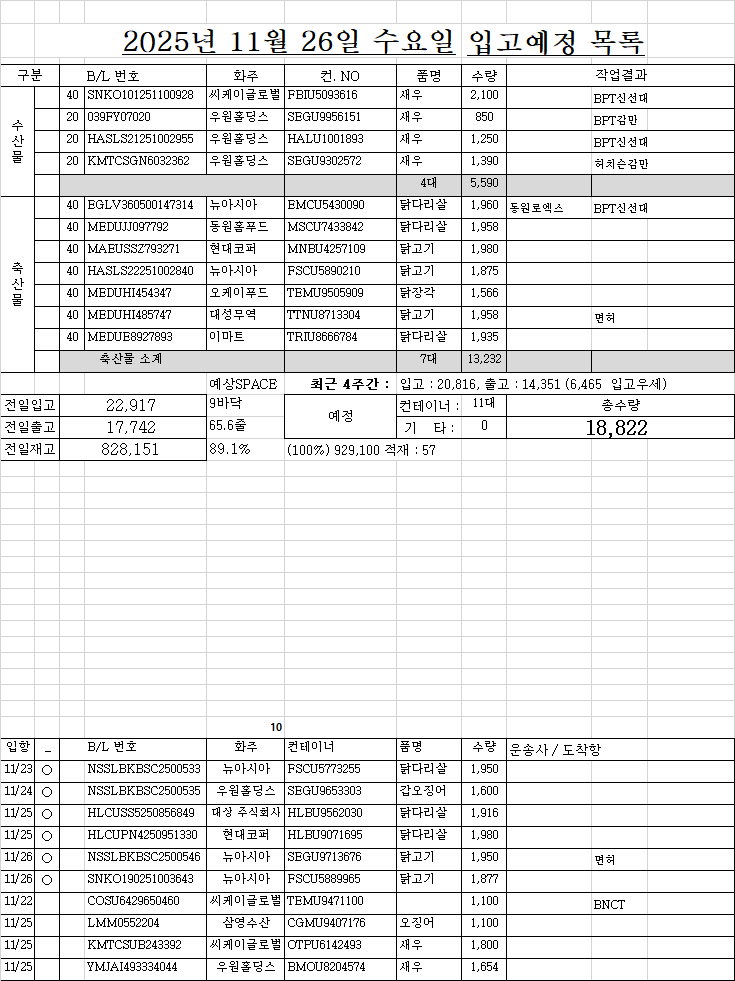
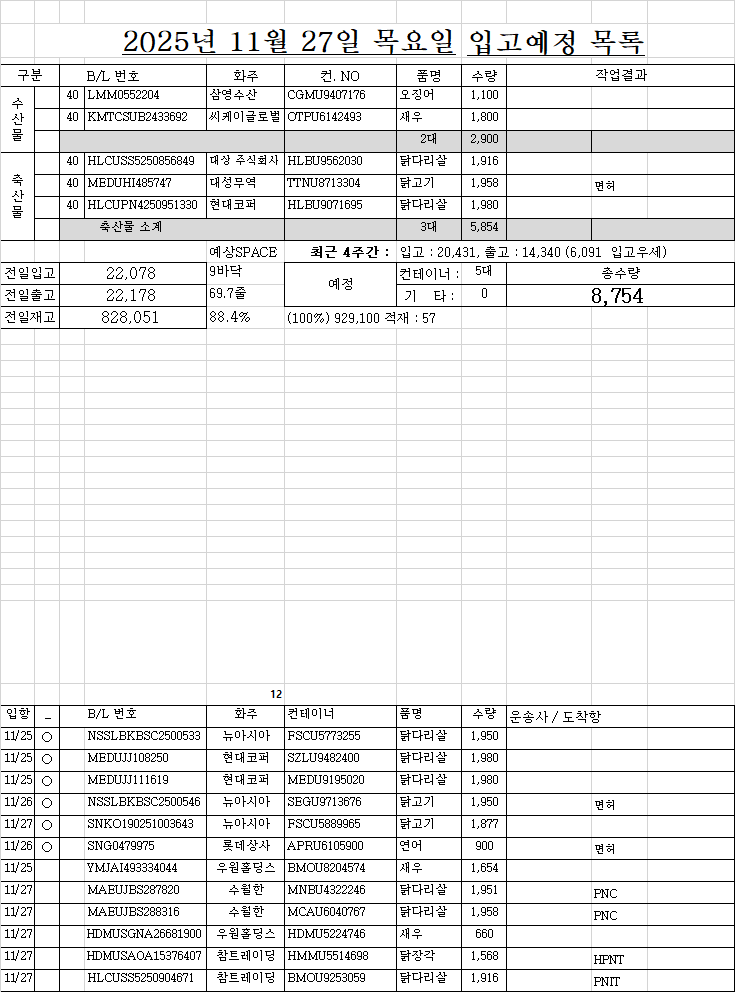
SDFSDFSDF

Changed region(s): [[0.0, 0.0306, 1.0, 0.5199], [0.0, 0.6728, 1.0, 1.0], [0.0, 0.5505, 1.0, 0.581]]

diff --git a/list.html b/list.html
@@ -123,47 +123,45 @@
 </div>
 <!-- ★★★★★★ 따로 빼 놔야한다. 복붙하면 첫칸 비어도 되는데, 여기서는 첫칸비우면 당겨진다. -->
 <!-- ★ 엑셀범위를 브라우저 textarea에 붙여넣으면 첫셀 비어도 제대로 되는데... HTML에 붙여놓은 자료는 처음셀이 비어있으면 당겨짐 -->
-<div class="d-none" id="원본text_리스트1부터w요약열까지">작성	면허	B/LNO.	화주	컨테이너NO.	품명	수량	반입NO.	입항일	구분	도착일	도착시간	구분	운.도VBA	11/25 화 17:25	화찰BL	화찰 선명	화물관리번호	화찰수량	화찰중량	화찰입항	리스트시트기준열	
-1	○	SNKO101251100928	씨케이글로벌	FBIU5093616	새우	2,100 	BPT신선대	11/23	1				BPT신선대		SNKO101251100928	HEUNG-A HOCHIMINH	25HASL2022I-6055-	2,100 	15,120.00 	2025.11.23	11/25 화 17:25	
-1	○	039FY07020	우원홀딩스	SEGU9956151	새우	850 	BPT감만	11/23	1			20 	BPT감만		039FY07020	WAN HAI 289	25WHLUJS39I-1037-	850 	10,200.00 	2025.11.23	조회정보	
-1	○	HASLS21251002955	우원홀딩스	HALU1001893	새우	1,250 	BPT신선대	11/23	1			20 	BPT신선대		HASLS21251002955	HEUNG-A HOCHIMINH	25HASL2022I-2011-	1,250 	7,155.00 	2025.11.23	적재	57 
-1	○	KMTCSGN6032362	우원홀딩스	SEGU9302572	새우	1,390 	허치슨감만	11/24	1			20 	허치슨감만		KMTCSGN6032362	KMTC TOKYO	25KMTC4059I-9024-	1,390 	8,896.00 	2025.11.24	4,617 	3줄
-1	○	EGLV360500147314	뉴아시아	EMCU5430090	닭다리살	1,960 	동원로엑스.BPT신선대	11/18	2	11/25	16:31		동원로엑스.BPT신선대		EGLV360500147314	TS VANCOUVER	25TSLUB150I-1955-	1,960 	24,500.00 	2025.11.18	6,156 	4줄
-1	○	MEDUJJ097792	동원홈푸드	MSCU7433842	닭다리살	1,958 		11/19	2						MEDUJJ097792	MSC MARIA CLARA	25MSCU6276I-0599-	1,958 	24,678.34 	2025.11.19	7,695 	5줄
-1	○	MAEUSSZ793271	현대코퍼	MNBU4257109	닭고기	1,980 		11/21	2	11/25	15:44				MAEUSSZ793271	MAERSK CAP JERVIS	25MAEU0768I-1193-	1,980 	24,948.00 	2025.11.21	9,234 	6줄
-1	○	HASLS22251002840	뉴아시아	FSCU5890210	닭고기	1,875 		11/23	2						HASLS22251002840	HEUNG-A HOCHIMINH	25HASL2022I-2088-	1,875 	24,000.00 	2025.11.23		
-1	○	MEDUHI454347	오케이푸드	TEMU9505909	닭장각	1,566 		11/23	2						MEDUHI454347	ONE FOREVER	25ONEY1449I-1114-	1,566 	24,380.41 	2025.11.23	출고/입고 4주간	
-1	○	MEDUHI485747	대성무역	TTNU8713304	닭고기	1,958 	면허	11/25	2						MEDUHI485747	ONE SINCERITY	25ONEY1459I-7212-	1,958 	24,486.84 	2025.11.25	1일 7/5	5일줄
-1	○	MEDUE8927893	이마트	TRIU8666784	닭다리살	1,935 		11/25	2						MEDUE8927893	ONE SINCERITY	25ONEY1459I-7242-	1,935 	24,294.52 	2025.11.25	14,216 	46.2
-2	○	NSSLBKBSC2500533	뉴아시아	FSCU5773255	닭다리살	1,950 		11/23	2						NSSLBKBSC2500533	SKY CHALLENGE	25CKCO1272I-3005-	1,950 	24,512.00 	2025.11.25	20,133 	65.4
-2	○	NSSLBKBSC2500535	우원홀딩스	SEGU9653303	갑오징어	1,600 		11/24	1			20 			NSSLBKBSC2500535	SKY CHALLENGE	25CKCO1272I-3007-	1,600 	8,000.00 	2025.11.24	내국제외	
-2	○	HLCUSS5250856849	대상 주식회사	HLBU9562030	닭다리살	1,916 		11/25	2						HLCUSS5250856849	ONE SINCERITY	25ONEY1459I-6561-	1,916 	24,187.58 	2025.11.25	구분	대수
-2	○	HLCUPN4250951330	현대코퍼	HLBU9071695	닭다리살	1,980 		11/25	2						HLCUPN4250951330	ONE SINCERITY	25ONEY1459I-6546-	1,980 	24,948.00 	2025.11.25	수산	17
-2	○	NSSLBKBSC2500546	뉴아시아	SEGU9713676	닭고기	1,950 	면허	11/26	2						NSSLBKBSC2500546	PEGASUS PROTO	25NSSLK079I-3005-	1,950 	24,512.00 	2025.11.26	축산	57
-2	○	SNKO190251003643	뉴아시아	FSCU5889965	닭고기	1,877 		11/26	2						SNKO190251003643	KMTC PUSAN	25KMTC4049I-6069-	1,877 	24,025.60 	2025.11.27	합계	74
-		COSU6429650460	씨케이글로벌	TEMU9471100		1,100 	BNCT	11/22	1				BNCT			COSCO FORTUNE						
-		LMM0552204	삼영수산	CGMU9407176	오징어	1,100 		11/25	1												화주별 요약	
-		KMTCSUB243392	씨케이글로벌	OTPU6142493	새우	1,800 		11/25	1												화주	대수
-		YMJAI493334044	우원홀딩스	BMOU8204574	새우	1,654 		11/25	1			20 				ANBIEN BAY					수월한	22
-		MAEUJBS287820	수월한	MNBU4322246	닭다리살	1,951 	PNC	11/27	2				PNC			MAERSK NARVIK					참트레이딩	7
-		MAEUJBS288316	수월한	MCAU6040767	닭다리살	1,958 	PNC	11/27	2				PNC			MAERSK NARVIK					우원홀딩스	6
-		HDMUSAOA15376407	참트레이딩	HMMU5514698	닭장각	1,568 	HPNT	11/27	2				HPNT			HYUNDAI FORCE					대성무역	6
-		HLCUSS5250904671	참트레이딩	BMOU9253059	닭다리살	1,916 	PNIT	11/27	2				PNIT			SEASPAN BRAVO					뉴아시아	5
-		HASLS22251100964	대성무역	SZLU9456041	닭다리살	1,940 		11/28	2												아스트로스	5
-		ONEYSGZF08630500	우원홀딩스	KKTU6082333	새우	1,290 		11/28	1			20 				AS PATRIA 					삼영수산	4
-		ONEYSAOF50285707	대상 주식회사	OTPU6313981	닭다리살	1,986 		11/29	2												씨케이글로벌	3
-		MEDUFX795109	이마트	SZLU9318994	닭다리		BCT	11/29	2				BCT			MSC GERMANY					동원홈푸드	3
-		MAEU259922035	재호물산	MNBU9087129	갈치	2,200 		11/29	1							COLUMBINE MAERSK					현대코퍼	3
-		MAEU259339952	참트레이딩	MNBU3744397	닭다리살	1,916 	PNC	11/29	2				PNC			REN JIAN 15					이마트	3
-		MAEU607470174	참트레이딩	MNBU3931654	닭장각	1,568 	PNC	11/29	2				PNC			REN JIAN 15					대상 주식회사	2
-		MEDUHI456359	현대코퍼	MEDU9029815	닭다리살	1,980 	BCT	11/29	2				BCT			MSC GERMANY					현대그린	2
-		HDMUSAOA11305307	대성무역	HMMU5515272	닭다리살	1,960 		11/30	2												바다사랑	2
-		MEDUFX804570	이마트	CXRU1008125	닭다리살	1,928 		11/30	2							MSC BIANCA					오케이푸드	1
-		HDMUSAOA11305317	대성무역	HMMU5454520	닭다리살	1,960 		12/1	2												재호물산	1
-		HLCUPN4251056200	동원홈푸드	HLBU9238479	닭다리살	1,951 		12/1	2												하나교역	1
-		ONEYSAOF51867700	현대그린	ONEU9279762	닭다리살	1,916 		12/1	2												합계	76
-		ONEYSAOF51902400	현대그린	ONEU9121890	닭다리살	1,916 		12/1	2													
-		MEDUJJ115925	동원홈푸드	CRLU1404245	닭다리살	1,958 		12/2	2													
+<div class="d-none" id="원본text_리스트1부터w요약열까지">작성	면허	B/LNO.	화주	컨테이너NO.	품명	수량	반입NO.	입항일	구분	도착일	도착시간	구분	운.도VBA	11/26 수 16:48	화찰BL	화찰 선명	화물관리번호	화찰수량	화찰중량	화찰입항	리스트시트기준열	
+1	○	LMM0552204	삼영수산	CGMU9407176	오징어	1,100 		11/26	1						LMM0552204	CMA CGM RIMBAUD	25CMAL0628I-2045-	1,100 	24,310.00 	2025.11.26	11/26 수 16:48	
+1	○	KMTCSUB2433692	씨케이글로벌	OTPU6142493	새우	1,800 		11/25	1						KMTCSUB2433692	KMTC HAIPHONG	25KMTC4101I-0201-	1,800 	21,600.00 	2025.11.25	조회정보	
+1	○	HLCUSS5250856849	대상 주식회사	HLBU9562030	닭다리살	1,916 		11/25	2						HLCUSS5250856849	ONE SINCERITY	25ONEY1459I-6561-	1,916 	24,187.58 	2025.11.25	적재	57 
+1	○	MEDUHI485747	대성무역	TTNU8713304	닭고기	1,958 	면허	11/25	2						MEDUHI485747	ONE SINCERITY	25ONEY1459I-7212-	1,958 	24,486.84 	2025.11.25	4,617 	3줄
+1	○	HLCUPN4250951330	현대코퍼	HLBU9071695	닭다리살	1,980 		11/25	2						HLCUPN4250951330	ONE SINCERITY	25ONEY1459I-6546-	1,980 	24,948.00 	2025.11.25	6,156 	4줄
+2	○	NSSLBKBSC2500533	뉴아시아	FSCU5773255	닭다리살	1,950 		11/25	2						NSSLBKBSC2500533	SKY CHALLENGE	25CKCO1272I-3005-	1,950 	24,512.00 	2025.11.25	7,695 	5줄
+2	○	MEDUJJ108250	현대코퍼	SZLU9482400	닭다리살	1,980 		11/25	2						MEDUJJ108250	ONE SINCERITY	25ONEY1459I-7243-	1,980 	24,948.00 	2025.11.25	9,234 	6줄
+2	○	MEDUJJ111619	현대코퍼	MEDU9195020	닭다리살	1,980 		11/25	2						MEDUJJ111619	ONE SINCERITY	25ONEY1459I-7231-	1,980 	24,948.00 	2025.11.25		
+2	○	NSSLBKBSC2500546	뉴아시아	SEGU9713676	닭고기	1,950 	면허	11/26	2						NSSLBKBSC2500546	PEGASUS PROTO	25NSSLK079I-3005-	1,950 	24,512.00 	2025.11.26	출고/입고 4주간	
+2	○	SNKO190251003643	뉴아시아	FSCU5889965	닭고기	1,877 		11/27	2						SNKO190251003643	KMTC PUSAN	25KMTC4049I-6069-	1,877 	24,025.60 	2025.11.27	1일 7/5	5일줄
+2	○	SNG0479975	롯데상사	APRU6105900	연어	900 	면허	11/26	1						SNG0479975	CMA CGM RIMBAUD	25CMAL0628I-2066-	900 	24,750.00 	2025.11.26	14,351 	46.6
+		YMJAI493334044	우원홀딩스	BMOU8204574	새우	1,654 		11/25	1			20 				ANBIEN BAY					20,816 	67.6
+		MAEUJBS287820	수월한	MNBU4322246	닭다리살	1,951 	PNC	11/27	2				PNC			MAERSK NARVIK					내국제외	
+		MAEUJBS288316	수월한	MCAU6040767	닭다리살	1,958 	PNC	11/27	2				PNC			MAERSK NARVIK					구분	대수
+		HDMUSGNA26681900	우원홀딩스	HDMU5224746	새우	660 		11/27	1			20 									수산	17
+		HDMUSAOA15376407	참트레이딩	HMMU5514698	닭장각	1,568 	HPNT	11/27	2				HPNT			HYUNDAI FORCE					축산	55
+		HLCUSS5250904671	참트레이딩	BMOU9253059	닭다리살	1,916 	PNIT	11/27	2				PNIT			SEASPAN BRAVO					합계	72
+		HASLS22251100964	대성무역	SZLU9456041	닭다리살	1,940 		11/28	2													
+		HLCUSCL251003814	롯데상사	HLBU9864087	연어	900 		11/28	1												화주별 요약	
+		HLCUSCL251007731	롯데상사	UAEU1253456	연어	900 		11/28	1												화주	대수
+		ONEYRICFHA975600	씨케이글로벌	TTNU8797157	북방대합	1,904 		11/28	1												수월한	22
+		ONEYSGZF08630500	우원홀딩스	KKTU6082333	새우	1,290 		11/28	1			20 				AS PATRIA 					참트레이딩	7
+		ONEYSAOF50285707	대상 주식회사	OTPU6313981	닭다리살	1,986 		11/29	2												대성무역	6
+		MEDUFX795109	이마트	SZLU9318994	닭다리		BCT	11/29	2				BCT			MSC GERMANY					현대코퍼	6
+		MAEU259922035	재호물산	MNBU9087129	갈치	2,200 		11/29	1							COLUMBINE MAERSK					아스트로스	5
+		MAEU259339952	참트레이딩	MNBU3744397	닭다리살	1,916 	PNC	11/29	2				PNC			REN JIAN 15					삼영수산	4
+		MAEU607470174	참트레이딩	MNBU3931654	닭장각	1,568 	PNC	11/29	2				PNC			REN JIAN 15					우원홀딩스	4
+		MEDUHI456359	현대코퍼	MEDU9029815	닭다리살	1,980 	BCT	11/29	2				BCT			MSC GERMANY					뉴아시아	3
+		HDMUSAOA11305307	대성무역	HMMU5515272	닭다리살	1,960 		11/30	2												롯데상사	3
+		MEDUFX804570	이마트	CXRU1008125	닭다리살	1,928 		11/30	2							MSC BIANCA					씨케이글로벌	2
+		MEDUHI506419	현대코퍼	CRSU6144866	닭다리살	1,980 		11/30	2												대상 주식회사	2
+		HDMUSAOA11305317	대성무역	HMMU5454520	닭다리살	1,960 		12/1	2												이마트	2
+		HLCUPN4251056200	동원홈푸드	HLBU9238479	닭다리살	1,951 		12/1	2												동원홈푸드	2
+		SNKO190251100631	우원홀딩스	SKRU1400113	새우	1,307 		12/1	1			20 									현대그린	2
+		ONEYSAOF51867700	현대그린	ONEU9279762	닭다리살	1,916 		12/1	2												바다사랑	2
+		ONEYSAOF51902400	현대그린	ONEU9121890	닭다리살	1,916 		12/1	2												재호물산	1
+		ONEYSAOF50285703	현대코퍼	SZLU9232421	닭다리살	1,973 		12/1	2												하나교역	1
+		MEDUJJ115925	동원홈푸드	CRLU1404245	닭다리살	1,958 		12/2	2												합계	74
 		MEDUE8931234	수월한	MEDU9029097	닭다리살	1,958 		12/2	2													
 		HLCUSS5250904682	참트레이딩	HLBU9520266	닭다리살	1,916 		12/3	2							IQUIQUE EXPRESS						
 		LMM0550707	삼영수산	FBIU5075525	오징어	1,100 	BNCT	12/4	1				BNCT			CMA CGM XIAME						
